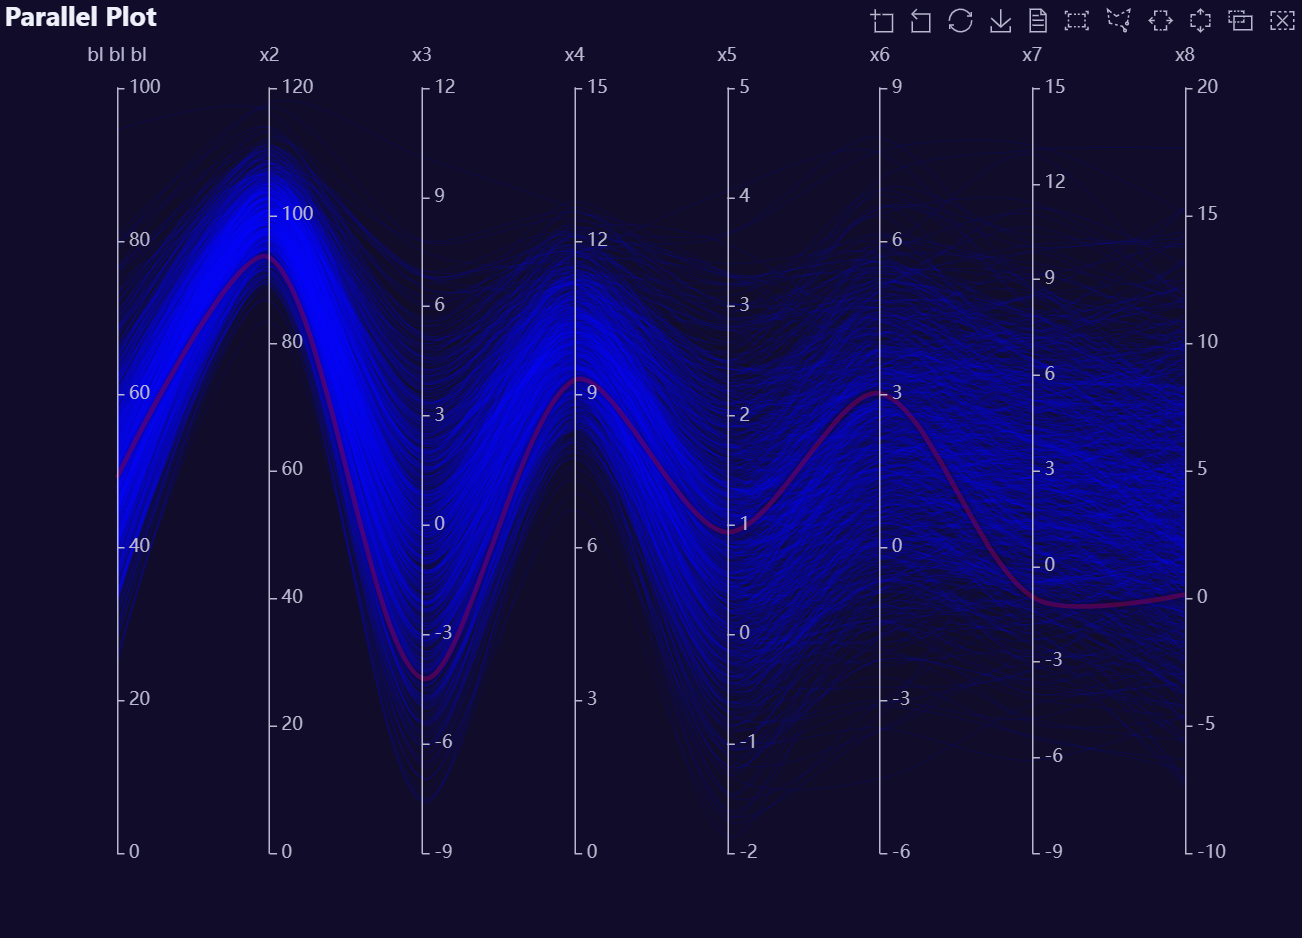
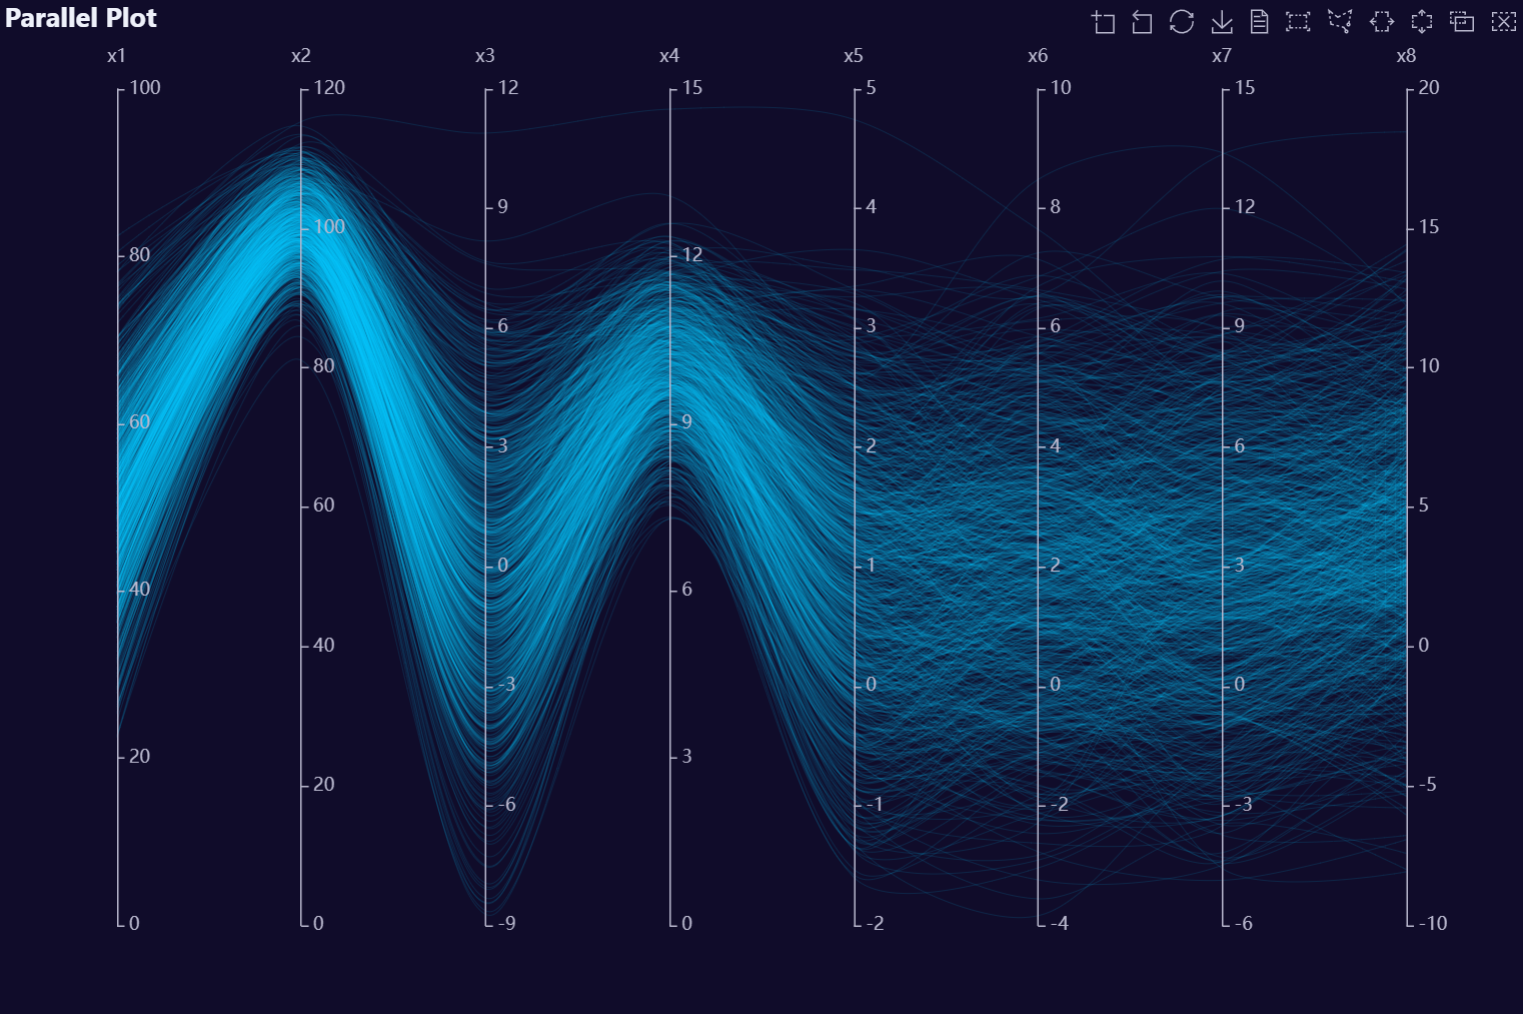
Update README

diff --git a/README.md b/README.md
@@ -938,7 +938,7 @@ AutoPlots::Parallel(
   dt = dt,
   CorrVars = names(dt),
   ShowLabels = T,
-  lineStyle.color = "blue",
+  lineStyle.color = "#00C7FF",
   lineStyle.width = 0.2
 )
 ```
@@ -966,7 +966,7 @@ plot_list <- lapply(group_vars, function(x) {
     dt = data[Factor_1 == x],
     CorrVars = paste0("x", 1:8),
     ShowLabels = T,
-    lineStyle.color = "blue",
+    lineStyle.color = "#00C7FF",
     lineStyle.width = 0.2,
     title.text = x
   )
